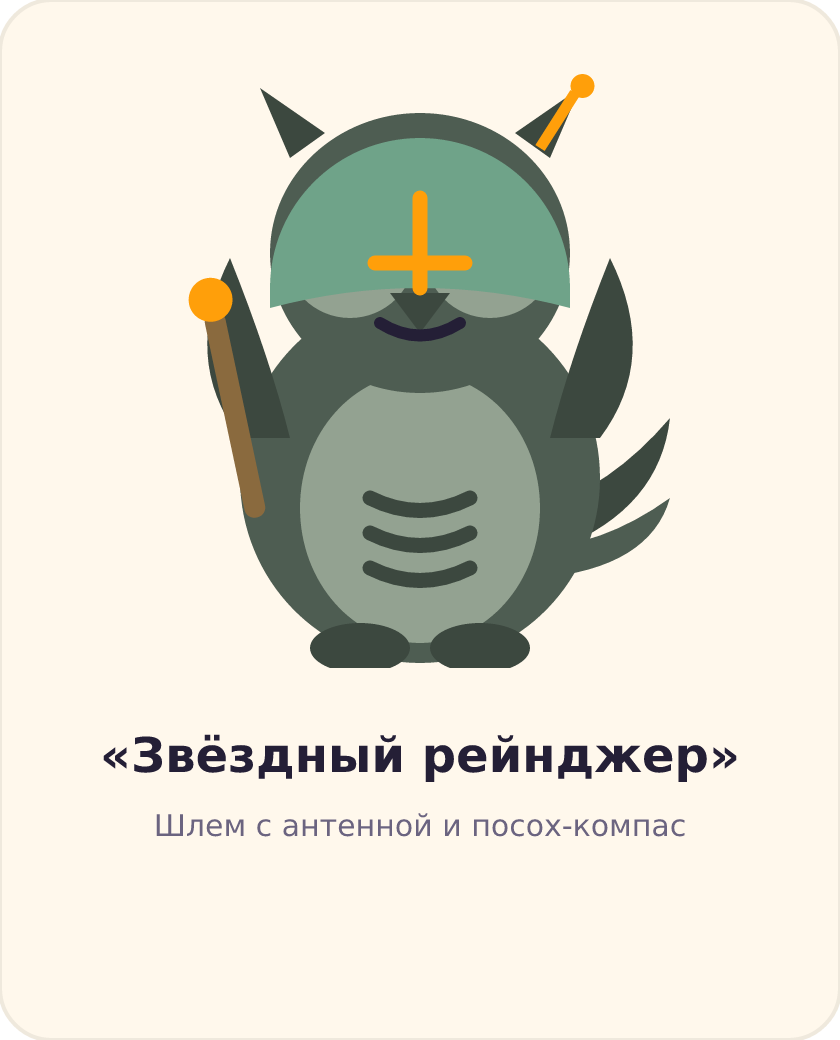
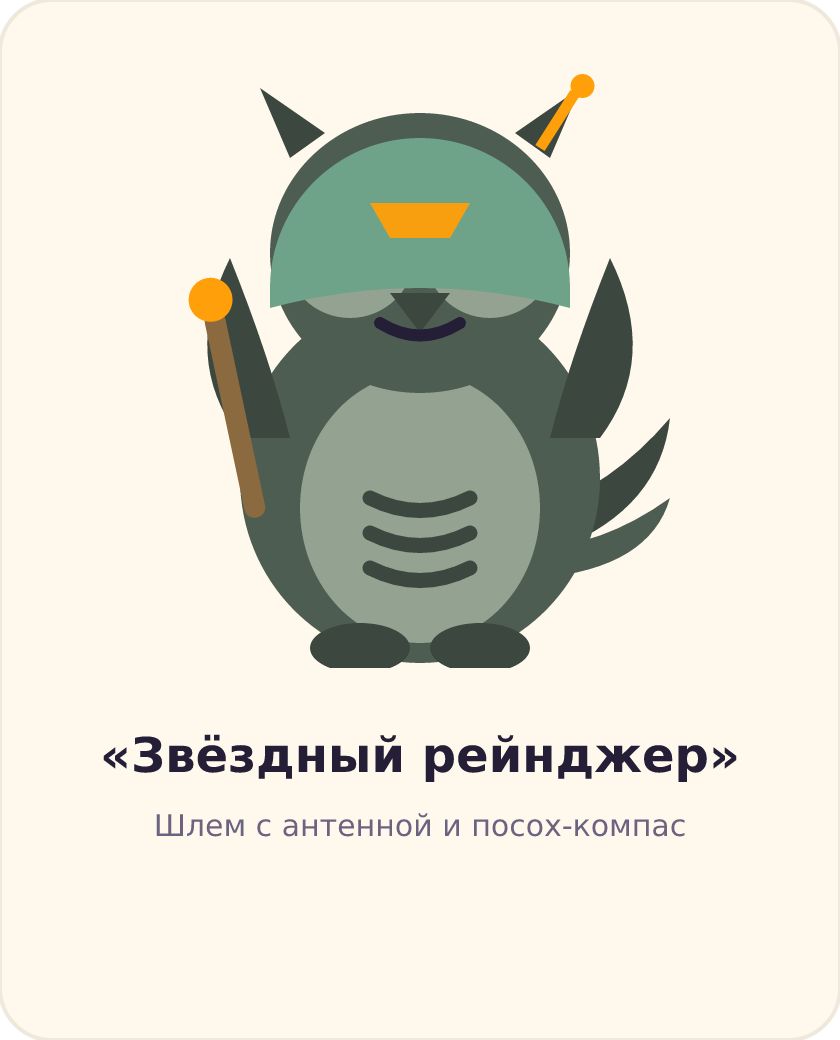
polish(costumes): поднятый визор у «Белого воина», щель-визор вместо «плюса» у рейнджера, маска-респиратор у Тёмного лорда
- snow-guard: край шлема поднят над зрачками, визор лежит на куполе — глаза
  открыты (узнаваемость БУКа);
- star-ranger: оранжевый «крест» заменён на трапецию-щель визора;
- dark-lord: новый тип шлема 'lord-mask' — купол с бликом, щёчные пластины и
  треугольный респиратор с решёткой; «Стальной страж» остался на прежнем 'mask',
  костюмы больше не близнецы;
- превью docs/promo/2026-10-01 перегенерированы.
typecheck/test:adaptive/test:smoke/build — зелёные.

Changed region(s): [[0.4333, 0.1846, 0.5571, 0.2769]]

diff --git a/src/ui/MascotLook.tsx b/src/ui/MascotLook.tsx
@@ -82,7 +82,7 @@ export function CostumeCape({ c }: { c: Costume }) {
 /** Шлемы и головные уборы — рисуем ПОСЛЕ аксессуаров, поверх мордочки. */
 export function CostumeHead({ c }: { c: Costume }) {
   switch (c.helmet) {
-    case 'mask': // «Тёмный лорд» / «Стальной страж»: купол, красные брови, «дыхатель» на клюве
+    case 'mask': // «Стальной страж»: купол, красные брови, «дыхатель» на клюве
       return (
         <g>
           <path d="M20 42 A30 31 0 0 1 80 42 Q65 33 50 38 Q35 33 20 42Z" fill={c.trim} />
@@ -90,11 +90,32 @@ export function CostumeHead({ c }: { c: Costume }) {
           <path d="M43 50 L50 58 L57 50 Q50 53.5 43 50Z" fill={c.trim} />
         </g>
       );
-    case 'visor': // «Белый воин»: белый шлем и синий Т-визор
+    case 'lord-mask': // «Тёмный лорд»: полный шлем-купол со щёчными пластинами и треугольной маской-респиратором
       return (
         <g>
-          <path d="M20 40 A30 30 0 0 1 80 40 L80 44 Q50 36 20 44Z" fill={c.trim} />
-          <path d="M24 38 H76 L68 47 H56 L52 58 H48 L44 47 H32Z" fill={c.glow} />
+          <path d="M20 42 A30 31 0 0 1 80 42 Q65 33 50 38 Q35 33 20 42Z" fill={c.trim} />
+          {/* блик на куполе — «полированный металл» */}
+          <path d="M31 20 A24 24 0 0 1 47 12" stroke="#ffffff" strokeWidth="3" strokeLinecap="round" fill="none" opacity=".28" />
+          <path d="M27 32 L38 37 M73 32 L62 37" stroke={c.glow} strokeWidth="2.6" strokeLinecap="round" fill="none" />
+          {/* щёчные пластины: расходятся от шлема к маске */}
+          <path d="M27 43 L41 58 L34 62 L23 49Z" fill={c.trim} />
+          <path d="M73 43 L59 58 L66 62 L77 49Z" fill={c.trim} />
+          {/* дыхательная маска на клюве: треугольник-респиратор с решёткой */}
+          <path d="M40 46 L50 63 L60 46 Q50 52 40 46Z" fill={c.trim} />
+          <path d="M44 51 H56 M45.5 55 H54.5 M47 58.5 H53" stroke={c.body} strokeWidth="1.6" strokeLinecap="round" opacity=".95" />
+          <circle cx="39.5" cy="48.5" r="1.7" fill={c.body} opacity=".9" />
+          <circle cx="60.5" cy="48.5" r="1.7" fill={c.body} opacity=".9" />
+        </g>
+      );
+    case 'visor': // «Белый воин»: белый шлем с «бровкой» на уровне глаз; синий визор поднят на купол
+      return (
+        <g>
+          {/* край шлема проходит над зрачками (y≈35): глаза открыты, как у штурмовика со поднятым стеклом */}
+          <path d="M20 40 A30 30 0 0 1 80 40 L80 41 Q50 28 20 41Z" fill={c.trim} />
+          {/* поднятое визорное стекло лежит на куполе */}
+          <path d="M28 19 H72 L66 27 H34Z" fill={c.glow} opacity=".92" />
+          {/* короткая «ночка» Т-визора на лбу — не дотягивается до глаз */}
+          <path d="M47 27 H53 L51.5 33 H48.5Z" fill={c.glow} opacity=".85" />
         </g>
       );
     case 'hood': // «Мастер Света» / «Ученик Тьмы»: капюшон-кольцо и складки по бокам
@@ -114,11 +135,12 @@ export function CostumeHead({ c }: { c: Costume }) {
           <path d="M42 55 H58" stroke={c.trim} strokeWidth="3" strokeLinecap="round" />
         </g>
       );
-    case 'dome': // «Звёздный рейнджер»: купол с Т-щелью и антенной
+    case 'dome': // «Звёздный рейнджер»: купол с горизонтальной щелью-визором и антенной
       return (
         <g>
           <path d="M20 44 A30 30 0 0 1 80 44 L80 48 Q50 40 20 48Z" fill={c.trim} />
-          <path d="M50 26 V44 M41 39 H59" stroke={c.glow} strokeWidth="3" strokeLinecap="round" fill="none" />
+          {/* трапеция-щель вместо креста: «прищур» шлема между бровей */}
+          <path d="M40 27 H60 L56 34 H44Z" fill={c.glow} opacity=".95" />
           <line x1="74" y1="16" x2="81" y2="5" stroke={c.glow} strokeWidth="2.2" />
           <circle cx="82.5" cy="3.6" r="2.4" fill={c.glow} />
         </g>

diff --git a/src/engine/puzzles.ts b/src/engine/puzzles.ts
@@ -31,7 +31,7 @@ export interface Costume {
   trim: string;
   /** Светящиеся детали: визор, клинок, диадема */
   glow: string;
-  helmet: 'mask' | 'visor' | 'hood' | 'bubble' | 'dome' | 'plate' | 'buns' | 'ears' | null;
+  helmet: 'mask' | 'lord-mask' | 'visor' | 'hood' | 'bubble' | 'dome' | 'plate' | 'buns' | 'ears' | null;
   prop: 'saber-red' | 'saber-blue' | 'saber-green' | 'cane' | null;
   /** Цвет плаща, если есть */
   cape?: string;
@@ -41,13 +41,13 @@ export const COSTUMES: Costume[] = [
   {
     id: 'dark-lord',
     title: 'Тёмный лорд',
-    desc: 'Чёрный шлем и красный светопосох',
+    desc: 'Шлем с дыхательной маской, красный светопосох',
     body: '#3a3352',
     belly: '#6f679a',
     wing: '#241f36',
     trim: '#141225',
     glow: '#ff3b4d',
-    helmet: 'mask',
+    helmet: 'lord-mask',
     prop: 'saber-red',
     cape: '#7a1f3c',
   },
